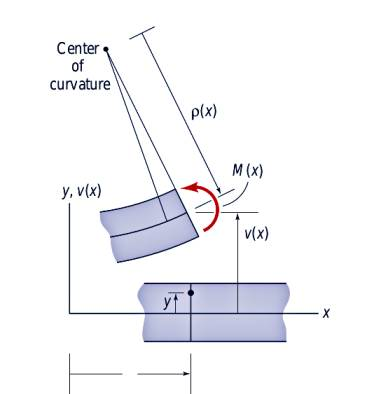
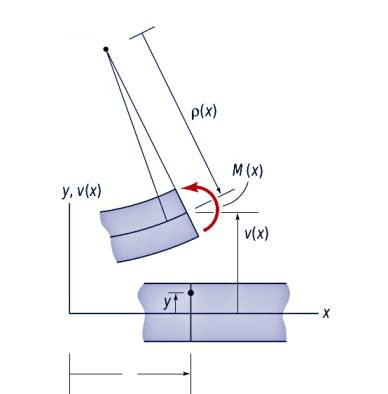
-

Changed region(s): [[0.1237, 0.0914, 0.2784, 0.2437]]

diff --git a/phy/phy_020_strs_05/materyel_mekanigi__5.html b/phy/phy_020_strs_05/materyel_mekanigi__5.html
@@ -47,7 +47,7 @@ $$</p>
 <p>Şimdi bu formülü genişletelim, ve bir ikinci derece türeve eşitleyelim.</p>
 <p><img alt="" src="phy_020_strs_05_01.jpg" /></p>
 <p>Resimde gösterilen semboller $M$ bükme momenti, $\rho$ çubuğun $+y$ tarafındaki
-bükülme çemberinin, eğiminin yarıçapı (radıus of curvature).  $v$ ise yine $+y$
+bükülme çemberinin, eğiminin yarıçapı (radius of curvature).  $v$ ise yine $+y$
 kısmındaki yer değişimidir. Çubuğa uygulanan kuvvet dağılımının ne olduğu
 önemli değil, sonuçta odaklandığımız çubuğun ufak bir kısmı.</p>
 <p>[3] kaynağında bir çemberi (yarıçapını) onun bir eğriye dokunduğu noktadaki
@@ -88,7 +88,12 @@ $$</p>
 <p>$$
 EI v" = M
 $$</p>
+<p>Problem çözmek için üstteki iki dereceli diferansiyel denklemi kullanabiliriz.</p>
+<p>Alttaki gibi bir problem olsun,</p>
 <p><img alt="" src="phy_020_strs_05_03.jpg" /></p>
+<p>Sol ucu sabit bir dirsekli kiriş (cantilevel beam) var. Bu kirişe dikey yönde en
+sağ ucunde $P_B$ yükü ve $M_B$ momenti uygulanıyor. Bu sistemde eğim $v'(x)$ ve
+sapma $v(x)$ için gereken ifadeyi bulalım.</p>
 <p><img alt="" src="phy_020_strs_05_04.jpg" /></p>
 <p><img alt="" src="phy_020_strs_05_05.jpg" /></p>
 <p>Kaynaklar</p>

diff --git a/algs/dict/teknik_terimler_sozlugu.html b/algs/dict/teknik_terimler_sozlugu.html
@@ -1913,6 +1913,7 @@
 <p>canonical form doğal biçim</p>
 <p>canonically conjugate variable yasal eslenik degisken</p>
 <p>canonic doğal</p>
+<p>cantilever beam dirsekli kiriş</p>
 <p>capacimeter sığaölçer</p>
 <p>capacitance (electric) sigalik</p>
 <p>capacitance sığallık</p>

diff --git a/phy/phy_020_strs_05/phy_020_strs_05.tex b/phy/phy_020_strs_05/phy_020_strs_05.tex
@@ -12,10 +12,10 @@ $$
 
 Şimdi bu formülü genişletelim, ve bir ikinci derece türeve eşitleyelim.
 
-\includegraphics[width=10em]{phy_020_strs_05_01.jpg}
+\includegraphics[width=15em]{phy_020_strs_05_01.jpg}
 
 Resimde gösterilen semboller $M$ bükme momenti, $\rho$ çubuğun $+y$ tarafındaki
-bükülme çemberinin, eğiminin yarıçapı (radıus of curvature).  $v$ ise yine $+y$
+bükülme çemberinin, eğiminin yarıçapı (radius of curvature).  $v$ ise yine $+y$
 kısmındaki yer değişimidir. Çubuğa uygulanan kuvvet dağılımının ne olduğu
 önemli değil, sonuçta odaklandığımız çubuğun ufak bir kısmı.
 
@@ -71,11 +71,19 @@ $$
 EI v'' = M
 $$
 
-\includegraphics[width=10em]{phy_020_strs_05_03.jpg}
+Problem çözmek için üstteki iki dereceli diferansiyel denklemi kullanabiliriz.
 
-\includegraphics[width=10em]{phy_020_strs_05_04.jpg}
+Alttaki gibi bir problem olsun,
 
-\includegraphics[width=10em]{phy_020_strs_05_05.jpg}
+\includegraphics[width=15em]{phy_020_strs_05_03.jpg}
+
+Sol ucu sabit bir dirsekli kiriş (cantilevel beam) var. Bu kirişe dikey yönde en
+sağ ucunde $P_B$ yükü ve $M_B$ momenti uygulanıyor. Bu sistemde eğim $v'(x)$ ve
+sapma $v(x)$ için gereken ifadeyi bulalım.
+
+\includegraphics[width=15em]{phy_020_strs_05_04.jpg}
+
+\includegraphics[width=15em]{phy_020_strs_05_05.jpg}
 
 Kaynaklar
 

diff --git a/algs/dict/dict.tex b/algs/dict/dict.tex
@@ -3752,6 +3752,8 @@ canonically conjugate variable yasal eslenik degisken
 
 canonic doğal
 
+cantilever beam dirsekli kiriş
+
 capacimeter sığaölçer
 
 capacitance (electric) sigalik
